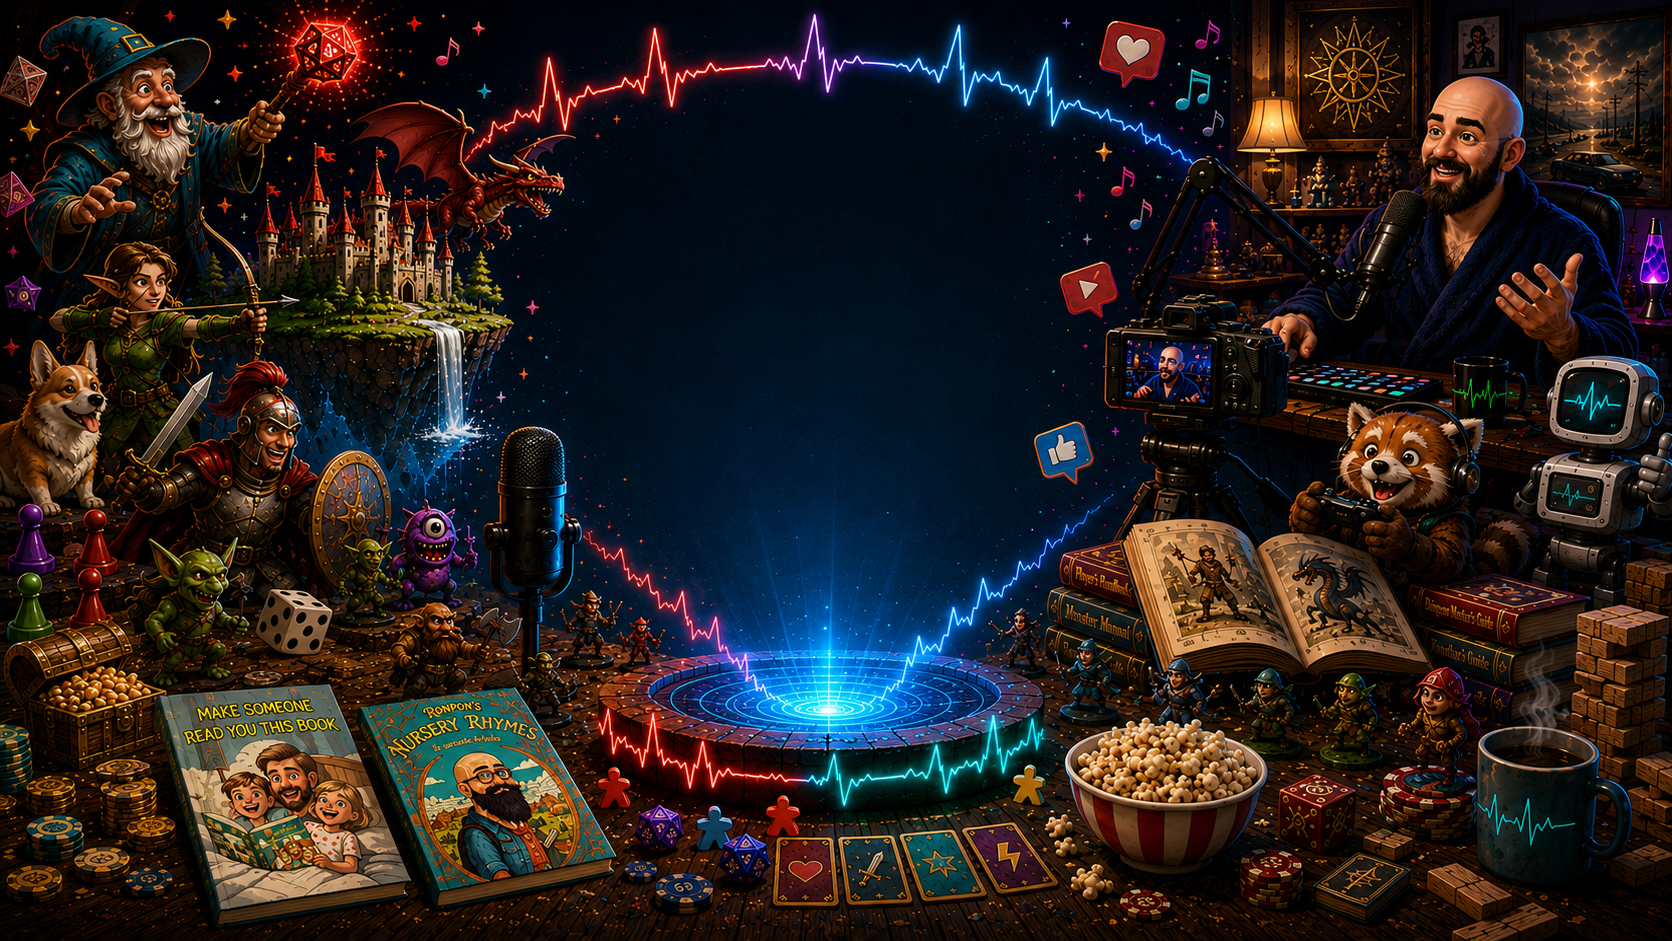
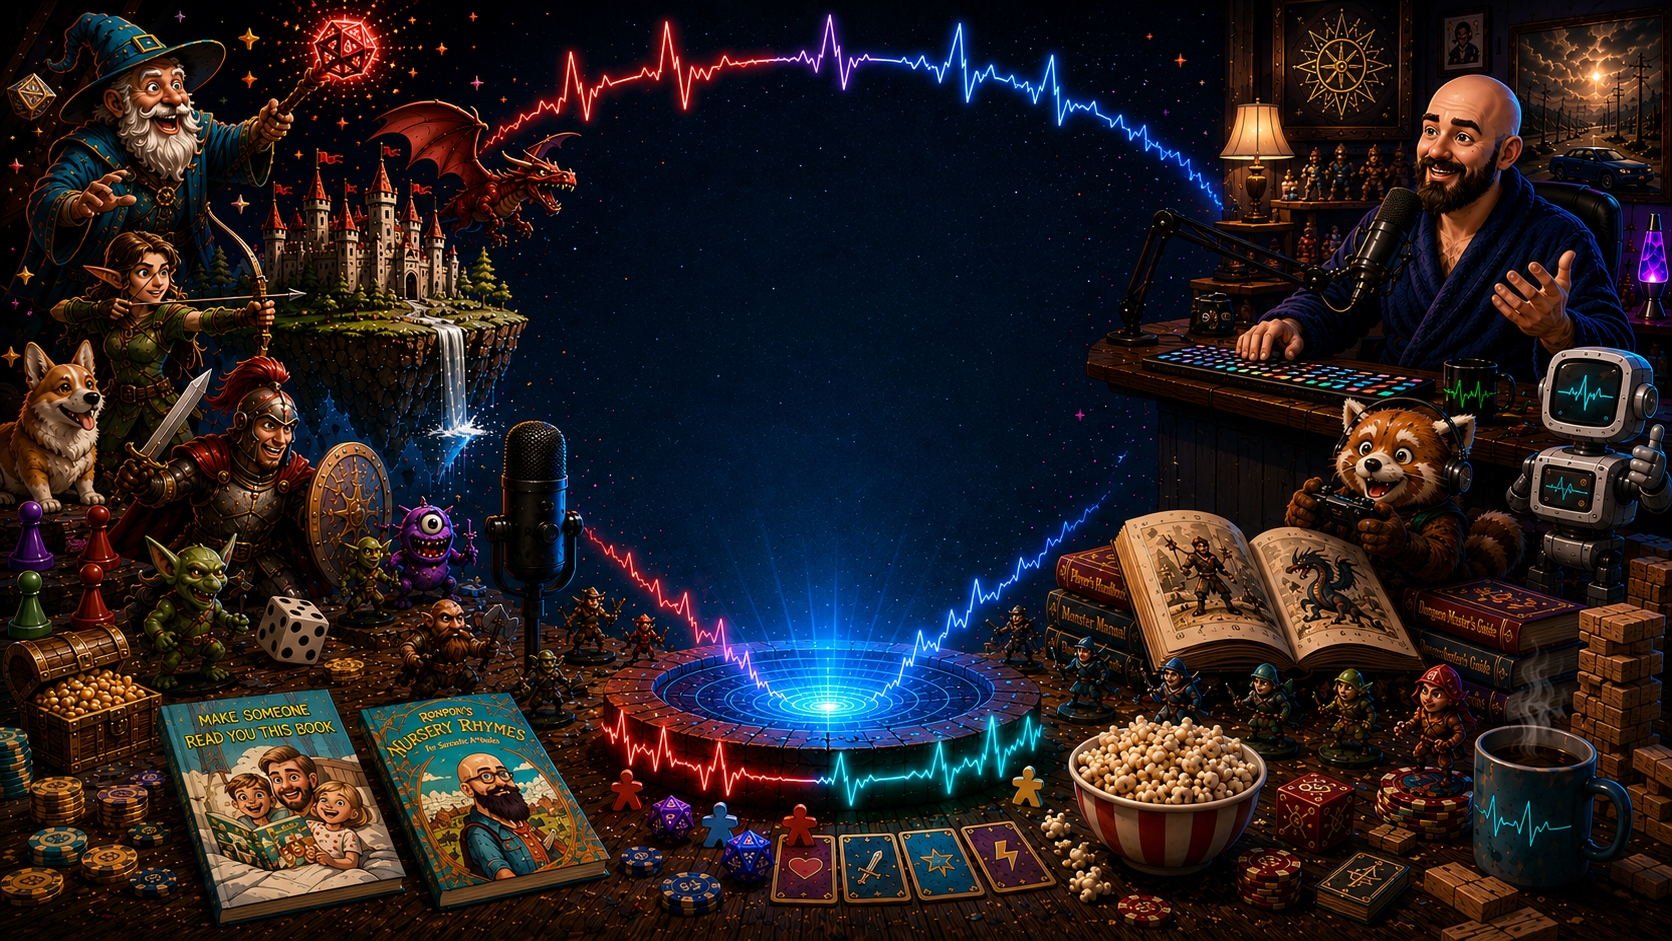
Adjust home hero image alignment

diff --git a/static/css/style.css b/static/css/style.css
@@ -210,7 +210,7 @@ a:hover { color: var(--color-primary-hover); }
     background:
         linear-gradient(180deg, rgba(8,8,15,0.28) 0%, rgba(8,8,15,0.62) 62%, var(--color-bg) 100%),
         radial-gradient(ellipse at 50% 36%, rgba(8,8,15,0.1) 0%, rgba(8,8,15,0.7) 72%),
-        url('/images/General%20Website%20Images/home-hero-ronpon-world.png') center / cover no-repeat;
+        url('/images/General%20Website%20Images/home-hero-ronpon-world.png') center top / cover no-repeat;
     pointer-events: none;
     z-index: -1;
 }
